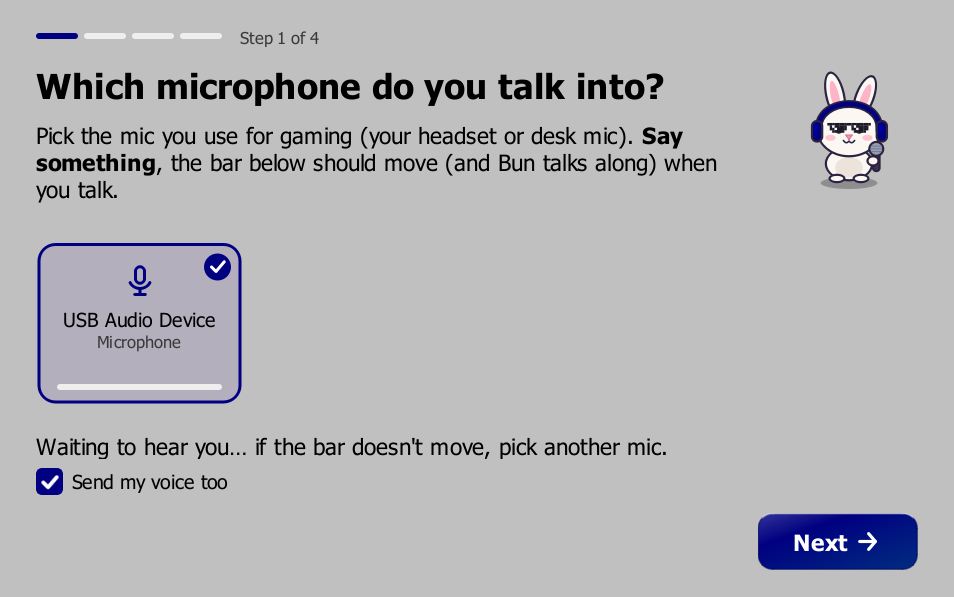
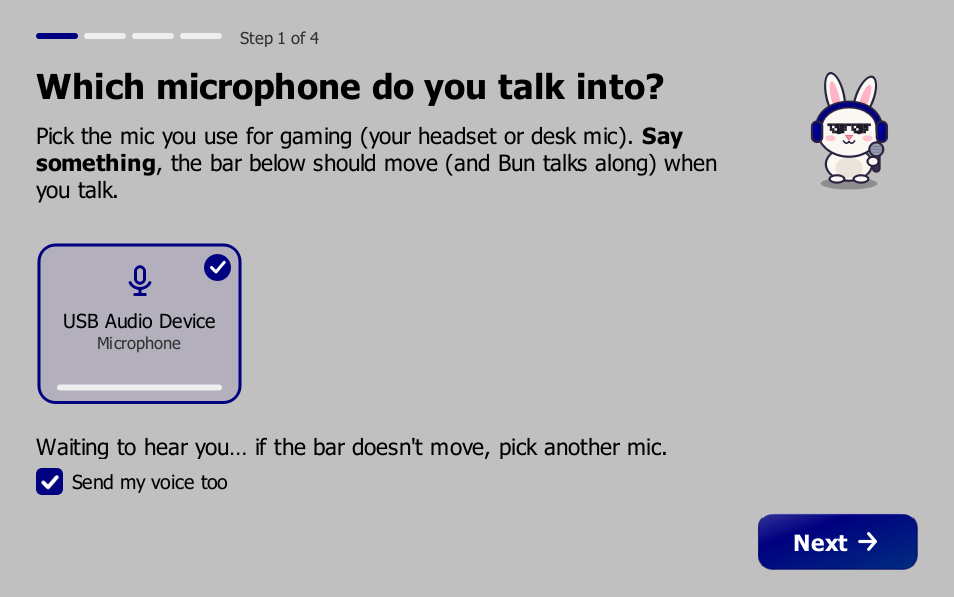
Docs: 2.0.1's VirusTotal scan

diff --git a/docs/index.html b/docs/index.html
@@ -7,7 +7,7 @@
 <meta name="description" content="Free Windows soundboard: play sounds into Discord and games through your mic. In-game hotkeys, an overlay, effects, a voice changer, text-to-speech, instant replay, and screen triggers that play a sound when something shows up, like YOU DIED.">
 <meta property="og:title" content="Onion Board: free soundboard for Discord and games">
 <meta property="og:description" content="Play sounds through your mic in Discord and games. Voice changer, text-to-speech, and screen triggers that play a sound when you die.">
-<meta property="og:image" content="https://onion-alien.github.io/onion-board/screenshots/sounds.png?v=e8f29807">
+<meta property="og:image" content="https://onion-alien.github.io/onion-board/screenshots/sounds.png?v=b0c32c84">
 <meta property="og:type" content="website">
 <meta name="twitter:card" content="summary_large_image">
 <link rel="icon" href="favicon.ico" sizes="16x16 32x32 48x48">
@@ -22,7 +22,7 @@
  "description": "Free Windows soundboard: play sounds into Discord and games through your mic, with a voice changer, text-to-speech, in-game hotkeys and screen triggers.",
  "url": "https://onion-alien.github.io/onion-board/",
  "downloadUrl": "https://github.com/Onion-Alien/onion-board/releases/latest/download/OnionBoardSetup.exe",
- "screenshot": "https://onion-alien.github.io/onion-board/screenshots/sounds.png?v=e8f29807",
+ "screenshot": "https://onion-alien.github.io/onion-board/screenshots/sounds.png?v=b0c32c84",
  "offers": {"@type": "Offer", "price": "0", "priceCurrency": "USD"}}
 </script>
 <style>
@@ -135,10 +135,10 @@
     <a class="dl" href="https://github.com/Onion-Alien/onion-board/releases/latest/download/OnionBoardSetup.exe" data-goatcounter-click="download-home-top">⬇ Download for Windows</a>
     <!-- release -->
     <p class="small">Version 2.0.1 · Windows 10 / 11 · free, no account, no ads, anonymous usage count you can switch off<br>
-      <a href="https://www.virustotal.com/gui/file/1cd0b4dfac61329d4803c3ca8dc6600859ba67cbf17c90844e28b12b42b5d592">VirusTotal: 68 of 68 clean</a> ·
+      <a href="https://www.virustotal.com/gui/file/b4b3dd1e34893eec77bf79b540e4135fe61690b4790c02999622e77596217a8f">VirusTotal: 68 of 68 clean</a> ·
       <a href="https://github.com/Onion-Alien/onion-board/releases/latest">what's new</a></p>
     <!-- /release -->
-    <div class="stage3d"><img class="hero" src="screenshots/sounds.png?v=e8f29807" width="2100" height="1281" alt="Onion Board's sound pads"></div>
+    <div class="stage3d"><img class="hero" src="screenshots/sounds.png?v=b0c32c84" width="2100" height="1281" alt="Onion Board's sound pads"></div>
   </header>
 
   <h2>What it does</h2>
@@ -157,10 +157,10 @@
 
   <h2>A closer look</h2>
   <div class="grid shots reveal">
-    <figure><img src="screenshots/voice.png?v=dd5f8d5a" alt="The Voice tab" loading="lazy"><figcaption>Voice changer and text-to-speech</figcaption></figure>
+    <figure><img src="screenshots/voice.png?v=47fabd92" alt="The Voice tab" loading="lazy"><figcaption>Voice changer and text-to-speech</figcaption></figure>
     <figure><img src="screenshots/triggers.png?v=0f4d9357" alt="The Triggers tab" loading="lazy"><figcaption>Triggers: a sound when something shows up in your game</figcaption></figure>
-    <figure><img src="screenshots/apps.png?v=5a20e737" alt="The Apps tab" loading="lazy"><figcaption>Send one program's sound to your friends</figcaption></figure>
-    <figure><img src="screenshots/setup.png?v=e1f0e32b" alt="The Setup tab" loading="lazy"><figcaption>Setup shows at a glance whether they can hear you</figcaption></figure>
+    <figure><img src="screenshots/apps.png?v=f8abb714" alt="The Apps tab" loading="lazy"><figcaption>Send one program's sound to your friends</figcaption></figure>
+    <figure><img src="screenshots/setup.png?v=544a86e9" alt="The Setup tab" loading="lazy"><figcaption>Setup shows at a glance whether they can hear you</figcaption></figure>
   </div>
 
   <h2>Get started</h2>

diff --git a/docs/soundboard-without-virtual-cable/index.html b/docs/soundboard-without-virtual-cable/index.html
@@ -7,7 +7,7 @@
 <meta name="description" content="Play sounds through your mic on Windows without installing VB-Cable or Voicemeeter. Onion Board is a free soundboard that puts sounds straight into the mic Discord and games already use.">
 <meta property="og:title" content="A soundboard that needs no virtual cable">
 <meta property="og:description" content="Free Windows soundboard: sounds go straight into the mic you already use. No VB-Cable, no Voicemeeter, nothing to pick in Discord.">
-<meta property="og:image" content="https://onion-alien.github.io/onion-board/screenshots/setup.png?v=e1f0e32b">
+<meta property="og:image" content="https://onion-alien.github.io/onion-board/screenshots/setup.png?v=544a86e9">
 <meta property="og:type" content="article">
 <meta name="twitter:card" content="summary_large_image">
 <link rel="icon" href="../favicon.ico" sizes="16x16 32x32 48x48">
@@ -45,7 +45,7 @@
   <p>One click, <b>Put my sounds straight into my mic</b>, adds a small audio effect to your mic in
     Windows' own audio engine (Windows asks for permission once). From then on, anything that listens
     to your mic hears your sounds mixed in. Nothing to pick in Discord, nothing to change in your games.</p>
-  <img src="../screenshots/setup.png?v=e1f0e32b" alt="Onion Board's Setup tab showing the sounds going into the mic" loading="lazy" width="1100" height="736">
+  <img src="../screenshots/setup.png?v=544a86e9" alt="Onion Board's Setup tab showing the sounds going into the mic" loading="lazy" width="1100" height="736">
   <p>It backs up your mic's settings first, and puts them back when you switch it off or uninstall.</p>
 
   <h2>Setup, step by step</h2>

diff --git a/docs/discord-soundboard/index.html b/docs/discord-soundboard/index.html
@@ -7,7 +7,7 @@
 <meta name="description" content="Play any sound or song through your mic in Discord voice chat, with hotkeys that work in-game. Free Windows soundboard, no Nitro, no length limit. Step-by-step setup.">
 <meta property="og:title" content="How to play sounds through your mic in Discord">
 <meta property="og:description" content="Free Windows soundboard: any sound, any length, hotkeys that work in-game. Setup takes two minutes.">
-<meta property="og:image" content="https://onion-alien.github.io/onion-board/screenshots/sounds.png?v=e8f29807">
+<meta property="og:image" content="https://onion-alien.github.io/onion-board/screenshots/sounds.png?v=b0c32c84">
 <meta property="og:type" content="article">
 <meta name="twitter:card" content="summary_large_image">
 <link rel="icon" href="../favicon.ico" sizes="16x16 32x32 48x48">
@@ -56,7 +56,7 @@
       or use push-to-talk. Onion Board reads these settings and shows a bar when one is in the way.</li>
     <li>Drag sound files onto the Onion Board window and double-click a pad. Everyone in the call hears it.</li>
   </ol>
-  <img src="../screenshots/sounds.png?v=e8f29807" alt="Onion Board's sound pads" loading="lazy" width="1100" height="736">
+  <img src="../screenshots/sounds.png?v=b0c32c84" alt="Onion Board's sound pads" loading="lazy" width="1100" height="736">
 
   <h2>Play sounds while you're in a game</h2>
   <p>Right-click a pad and give it a <b>hotkey</b>. Hotkeys work even while a fullscreen game has

diff --git a/docs/play-sounds-through-mic/index.html b/docs/play-sounds-through-mic/index.html
@@ -7,7 +7,7 @@
 <meta name="description" content="How to play sounds and music through your microphone on Windows so others hear them in Discord, games and calls, without a virtual cable. Free, step by step.">
 <meta property="og:title" content="How to play sounds through your mic">
 <meta property="og:description" content="Play sounds and music through your mic on Windows, free, no virtual cable.">
-<meta property="og:image" content="https://onion-alien.github.io/onion-board/screenshots/setup.png?v=e1f0e32b">
+<meta property="og:image" content="https://onion-alien.github.io/onion-board/screenshots/setup.png?v=544a86e9">
 <meta property="og:type" content="article">
 <meta name="twitter:card" content="summary_large_image">
 <link rel="icon" href="../favicon.ico" sizes="16x16 32x32 48x48">
@@ -33,7 +33,7 @@
   <p>Install a soundboard that mixes sounds into your mic. Onion Board does it with one click and no
     virtual cable: it adds a small audio effect to your mic in Windows' own audio engine, so every app
     that listens to your mic hears your voice and your sounds together.</p>
-  <img src="../screenshots/setup.png?v=e1f0e32b" alt="Onion Board's Setup tab showing sounds going into the mic" loading="lazy" width="1100" height="736">
+  <img src="../screenshots/setup.png?v=544a86e9" alt="Onion Board's Setup tab showing sounds going into the mic" loading="lazy" width="1100" height="736">
 
   <h2>Step by step</h2>
   <ol>

diff --git a/docs/resanance-alternative/index.html b/docs/resanance-alternative/index.html
@@ -7,7 +7,7 @@
 <meta name="description" content="Looking for a Resanance alternative? Onion Board is a free Windows soundboard that imports your Resanance sounds and hotkeys in one click and plays them through your mic with no virtual cable.">
 <meta property="og:title" content="A Resanance alternative that imports your board">
 <meta property="og:description" content="Free Windows soundboard: your Resanance sounds and hotkeys come over in one click.">
-<meta property="og:image" content="https://onion-alien.github.io/onion-board/screenshots/sounds.png?v=e8f29807">
+<meta property="og:image" content="https://onion-alien.github.io/onion-board/screenshots/sounds.png?v=b0c32c84">
 <meta property="og:type" content="article">
 <meta name="twitter:card" content="summary_large_image">
 <link rel="icon" href="../favicon.ico" sizes="16x16 32x32 48x48">
@@ -45,7 +45,7 @@
     <li><b>Add sounds from search:</b> YouTube, SoundCloud and Myinstants, one click to keep one as a pad.</li>
     <li><b>Screen triggers:</b> play a sound when something shows up in your game, like "YOU DIED".</li>
   </ul>
-  <img src="../screenshots/sounds.png?v=e8f29807" alt="Onion Board's Sounds tab with pads" loading="lazy" width="1100" height="736">
+  <img src="../screenshots/sounds.png?v=b0c32c84" alt="Onion Board's Sounds tab with pads" loading="lazy" width="1100" height="736">
 
   <h2>Switching over</h2>
   <ol>

diff --git a/docs/exp-soundboard-alternative/index.html b/docs/exp-soundboard-alternative/index.html
@@ -7,7 +7,7 @@
 <meta name="description" content="Looking for an EXP Soundboard alternative? Onion Board is a free Windows soundboard that imports your EXP sounds and hotkeys in one click, needs no Java and no virtual cable.">
 <meta property="og:title" content="An EXP Soundboard alternative that imports your board">
 <meta property="og:description" content="Free Windows soundboard: no Java, no virtual cable, your EXP board comes over in one click.">
-<meta property="og:image" content="https://onion-alien.github.io/onion-board/screenshots/sounds.png?v=e8f29807">
+<meta property="og:image" content="https://onion-alien.github.io/onion-board/screenshots/sounds.png?v=b0c32c84">
 <meta property="og:type" content="article">
 <meta name="twitter:card" content="summary_large_image">
 <link rel="icon" href="../favicon.ico" sizes="16x16 32x32 48x48">
@@ -44,7 +44,7 @@
     <li><b>Add sounds from search:</b> YouTube, SoundCloud and Myinstants.</li>
     <li><b>Updates itself</b> when a new version is out (you click Update now).</li>
   </ul>
-  <img src="../screenshots/sounds.png?v=e8f29807" alt="Onion Board's Sounds tab with pads" loading="lazy" width="1100" height="736">
+  <img src="../screenshots/sounds.png?v=b0c32c84" alt="Onion Board's Sounds tab with pads" loading="lazy" width="1100" height="736">
 
   <h2>Switching over</h2>
   <ol>

diff --git a/docs/discord-text-to-speech-voice-chat/index.html b/docs/discord-text-to-speech-voice-chat/index.html
@@ -7,7 +7,7 @@
 <meta name="description" content="Type a line and have it spoken in Discord voice chat or in-game voice. Free Windows app: Windows voices or your own (Kokoro, Piper), voice effects, and live speech in 33 languages.">
 <meta property="og:title" content="Text-to-speech in Discord voice chat">
 <meta property="og:description" content="Type a line, everyone in the voice channel hears it. Free, Windows.">
-<meta property="og:image" content="https://onion-alien.github.io/onion-board/screenshots/voice.png?v=dd5f8d5a">
+<meta property="og:image" content="https://onion-alien.github.io/onion-board/screenshots/voice.png?v=47fabd92">
 <meta property="og:type" content="article">
 <meta name="twitter:card" content="summary_large_image">
 <link rel="icon" href="../favicon.ico" sizes="16x16 32x32 48x48">
@@ -38,7 +38,7 @@
       press <b>Enter</b>. It's spoken in the voice you picked, into your mic.</li>
     <li><b>Save as sound</b> keeps a line as a pad, so you can give it a hotkey and play it in-game.</li>
   </ol>
-  <img src="../screenshots/voice.png?v=dd5f8d5a" alt="Onion Board's Voice tab with text-to-speech" loading="lazy" width="1100" height="736">
+  <img src="../screenshots/voice.png?v=47fabd92" alt="Onion Board's Voice tab with text-to-speech" loading="lazy" width="1100" height="736">
 
   <h2>Voices</h2>
   <ul>

diff --git a/docs/voicemod-alternative/index.html b/docs/voicemod-alternative/index.html
@@ -7,7 +7,7 @@
 <meta name="description" content="A free alternative to Voicemod for Windows: a soundboard and a live voice changer with 21 voices, optional AI voices, text-to-speech and in-game hotkeys. No account, no subscription.">
 <meta property="og:title" content="A free Voicemod alternative">
 <meta property="og:description" content="Soundboard + live voice changer for Discord and games. Free, no account.">
-<meta property="og:image" content="https://onion-alien.github.io/onion-board/screenshots/voice.png?v=dd5f8d5a">
+<meta property="og:image" content="https://onion-alien.github.io/onion-board/screenshots/voice.png?v=47fabd92">
 <meta property="og:type" content="article">
 <meta name="twitter:card" content="summary_large_image">
 <link rel="icon" href="../favicon.ico" sizes="16x16 32x32 48x48">
@@ -43,7 +43,7 @@
     <tr><td>Account needed</td><td>No</td></tr>
     <tr><td>Price</td><td>Free</td></tr>
   </table>
-  <img src="../screenshots/voice.png?v=dd5f8d5a" alt="Onion Board's Voice tab with the voice changer" loading="lazy" width="1100" height="736">
+  <img src="../screenshots/voice.png?v=47fabd92" alt="Onion Board's Voice tab with the voice changer" loading="lazy" width="1100" height="736">
 
   <h2>Set up in two minutes</h2>
   <ol>

diff --git a/docs/free-soundpad-alternative/index.html b/docs/free-soundpad-alternative/index.html
@@ -7,7 +7,7 @@
 <meta name="description" content="Looking for a free alternative to Soundpad or Voicemod? Onion Board is a free Windows soundboard with a voice changer, text-to-speech, in-game hotkeys and screen triggers. No account, no ads.">
 <meta property="og:title" content="A free Soundpad and Voicemod alternative">
 <meta property="og:description" content="Free Windows soundboard with a voice changer, text-to-speech, in-game hotkeys and screen triggers.">
-<meta property="og:image" content="https://onion-alien.github.io/onion-board/screenshots/sounds.png?v=e8f29807">
+<meta property="og:image" content="https://onion-alien.github.io/onion-board/screenshots/sounds.png?v=b0c32c84">
 <meta property="og:type" content="article">
 <meta name="twitter:card" content="summary_large_image">
 <link rel="icon" href="../favicon.ico" sizes="16x16 32x32 48x48">

diff --git a/docs/zoom-google-meet-soundboard/index.html b/docs/zoom-google-meet-soundboard/index.html
@@ -7,7 +7,7 @@
 <meta name="description" content="Play sounds, music and text-to-speech in Zoom and Google Meet calls on Windows. Free soundboard, plus the one setting in each app that stops your sounds being filtered out.">
 <meta property="og:title" content="A soundboard for Zoom and Google Meet">
 <meta property="og:description" content="Play sounds in Zoom and Meet calls, and the setting that stops them being filtered out.">
-<meta property="og:image" content="https://onion-alien.github.io/onion-board/screenshots/sounds.png?v=e8f29807">
+<meta property="og:image" content="https://onion-alien.github.io/onion-board/screenshots/sounds.png?v=b0c32c84">
 <meta property="og:type" content="article">
 <meta name="twitter:card" content="summary_large_image">
 <link rel="icon" href="../favicon.ico" sizes="16x16 32x32 48x48">

diff --git a/README.md b/README.md
@@ -8,17 +8,17 @@ Or send it to your stream, or keep it to your own headphones.
 
 <!-- release -->
 Version **2.0.1** · Windows 10 / 11 · free, no account, no ads, anonymous usage count you can switch off ·
-[VirusTotal: 68 of 68 clean](https://www.virustotal.com/gui/file/1cd0b4dfac61329d4803c3ca8dc6600859ba67cbf17c90844e28b12b42b5d592) ·
+[VirusTotal: 68 of 68 clean](https://www.virustotal.com/gui/file/b4b3dd1e34893eec77bf79b540e4135fe61690b4790c02999622e77596217a8f) ·
 [what's new](CHANGELOG.md)
 <!-- /release -->
 
-![Onion Board's sound pads](docs/screenshots/sounds.png?v=e8f29807)
+![Onion Board's sound pads](docs/screenshots/sounds.png?v=b0c32c84)
 
 | | |
 |---|---|
-| ![Voice changer and text-to-speech](docs/screenshots/voice.png?v=dd5f8d5a) | ![Screen triggers](docs/screenshots/triggers.png?v=0f4d9357) |
+| ![Voice changer and text-to-speech](docs/screenshots/voice.png?v=47fabd92) | ![Screen triggers](docs/screenshots/triggers.png?v=0f4d9357) |
 | **Voice**: change your voice live, or type and a computer voice says it | **Triggers**: a sound the moment "YOU DIED" shows up in your game |
-| ![Send a program's sound](docs/screenshots/apps.png?v=5a20e737) | ![Setup at a glance](docs/screenshots/setup.png?v=e1f0e32b) |
+| ![Send a program's sound](docs/screenshots/apps.png?v=f8abb714) | ![Setup at a glance](docs/screenshots/setup.png?v=544a86e9) |
 | **Apps**: send one program's sound (music, a video) to your friends | **Setup**: one look tells you whether others can hear you |
 
 ## What it does
